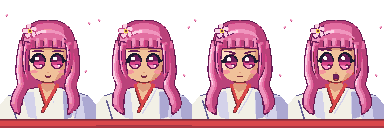
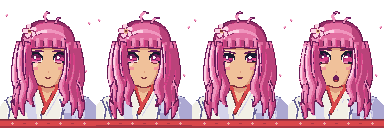
Sakura bust: natural-size almond eyes, longer face, layered locks, kimono folds, obi motif
Claude-Session: https://claude.ai/code/session_01J8LgTLVYzThXjNSRVhWqep

diff --git a/tools/sprites/anime_busts.py b/tools/sprites/anime_busts.py
@@ -546,11 +546,11 @@ S_SKIN_OUT = MAROON
 SKIN_L = (252, 222, 198); SKIN = (240, 193, 154); SKIN_S = (222, 156, 126); SKIN_SS = (200, 128, 108)
 BLUSH = (244, 148, 156); LIP = (190, 66, 88)
 HAIR = (226, 110, 160); HAIR_L = (240, 150, 190); HAIR_HI = (252, 210, 228)
-HAIR_D = (186, 66, 122); HAIR_OUT = (100, 28, 78)
+HAIR_D = (186, 66, 122); HAIR_DD = (148, 46, 102); HAIR_OUT = (100, 28, 78)
 IRIS_D = (112, 30, 96); IRIS_M = (214, 64, 134); IRIS_B = (255, 152, 200); WHITE = (255, 252, 250)
 LAV = (212, 210, 234); LAV_D = (172, 168, 210); LAV_OUT = (100, 94, 146)
 RED_L = (240, 112, 108)
-SAKURA_PALETTE = [S_INK, MAROON, SKIN_L, SKIN, SKIN_S, SKIN_SS, BLUSH, LIP, HAIR, HAIR_L, HAIR_HI, HAIR_D, HAIR_OUT,
+SAKURA_PALETTE = [S_INK, MAROON, SKIN_L, SKIN, SKIN_S, SKIN_SS, BLUSH, LIP, HAIR, HAIR_L, HAIR_HI, HAIR_D, HAIR_DD, HAIR_OUT,
                   IRIS_D, IRIS_M, IRIS_B, WHITE, CREAM, LAV, LAV_D, LAV_OUT, RED, RED_L, DEEP_RED, YELLOW, ORANGE]
 SBG = BG
 
@@ -615,8 +615,8 @@ def wob(ctrl, s, k, t0=0.3):
     return [(x + s * k * max(0.0, i / (n - 1) - t0) / (1 - t0), y) for i, (x, y) in enumerate(ctrl)]
 
 
-SFACE = [(13.6, 17), (24, 16.2), (34.4, 17), (35.5, 24), (35.2, 30), (33.6, 35), (30.6, 38.8), (27.2, 40.8), (24, 41.4),
-         (20.8, 40.8), (17.4, 38.8), (14.4, 35), (12.8, 30), (12.5, 24)]
+SFACE = [(13.6, 17), (24, 16.2), (34.4, 17), (35.4, 24), (35.0, 31), (33.2, 37), (30.0, 41.2), (26.6, 43.2), (24, 43.8),
+         (21.4, 43.2), (18.0, 41.2), (14.8, 37), (13.0, 31), (12.6, 24)]
 SFACE_S = smooth(SFACE + [SFACE[0]], 6)
 SNECK = [(21.2, 35), (26.8, 35), (27.2, 47.5), (20.8, 47.5)]
 STORSO = [(0, 64), (0, 55), (4, 50.4), (12, 47.8), (20.2, 45.9), (24, 48.0), (27.8, 45.9), (36, 47.8), (44, 50.4),
@@ -640,42 +640,52 @@ def bangs_bottom():
     return pts
 
 
+
 def s_eye(img, cx, cy, side, expr):
-    """Big cute eye: tall iris that fills the eye (no sclera), dark top -> rose -> bright bottom, thick upper lash
-    with an outer flick, big upper-left highlight and a small lower one. side -1 = left eye (outer corner left)."""
-    h = {"shout": 1.14, "determined": 0.9}.get(expr, 1.0)
-    rx, ry = 3.1, 3.65 * h
-    ecy = cy + 0.2 + (0.25 if expr == "determined" else 0)
-    ell = poly_mask(ellipse_pts(cx, ecy, rx, ry, 28))
+    """Natural anime eye: almond shape wider than tall, outer corner a little raised, iris ~80% of the height with
+    a sliver of white at each corner, dark -> rose -> bright gradient, thick upper lash with a subtle outer flick,
+    a thin lower lash hint at the outer corner, one main highlight and a small second one."""
+    h = {"shout": 1.16, "determined": 0.86}.get(expr, 1.0)
+    hw, hh = 3.2, 3.0 * h
+    N = 20
+    top, bot = [], []
+    for k in range(N + 1):
+        t = k / N
+        u = 2 * t - 1
+        x = cx - side * hw + side * 2 * hw * t
+        sq = math.sqrt(max(0.0, 1 - u * u))
+        top.append((x, cy - hh * sq - 0.55 * t + 0.1))
+        bot.append((x, cy + hh * 0.7 * sq - 0.5 * t + 0.1))
+    almond = top + bot[::-1]
+    am = poly_mask(almond)
     d = ImageDraw.Draw(img)
-    paste_mask(img, IRIS_B, ell)
-    paste_mask(img, IRIS_M, both(ell, box_mask(0, 0, 48, ecy + ry * 0.45)))
-    paste_mask(img, IRIS_D, both(ell, box_mask(0, 0, 48, ecy + ry * 0.02)))
+    poly(d, almond, CREAM)
+    iris = poly_mask(ellipse_pts(cx + side * 0.1, cy + 0.15, 2.1, hh * 0.98, 24))
+    iris = both(iris, am)
+    paste_mask(img, IRIS_B, iris)
+    paste_mask(img, IRIS_M, both(iris, box_mask(0, 0, 48, cy + hh * 0.3)))
+    paste_mask(img, IRIS_D, both(iris, box_mask(0, 0, 48, cy - hh * 0.3)))
     d = ImageDraw.Draw(img)
-    d.line([P(*p) for p in ellipse_pts(cx, ecy, rx - 0.15, ry - 0.15, 20, 0.35, math.pi - 0.35)], fill=IRIS_D, width=5)
-    # lash: thin at the inner corner, thick at the outer one, then a short flick out and up
-    th0, th1 = (math.pi + 0.05, 2 * math.pi - 0.05)
-    arc = ellipse_pts(cx, ecy, rx + 0.1, ry + 0.05, 24, th0, th1)
-    if side < 0:
-        arc = arc[::-1]
-    m = len(arc) - 1
+    d.line([P(*p) for p in bot[3:N - 2]], fill=lc(S_SKIN_OUT), width=4, joint="curve")
+    m = len(top) - 1
     for i in range(m):
         t = i / m
-        w = 9 + 12 * t ** 1.3
-        d.line([P(*arc[i]), P(*arc[i + 1])], fill=S_INK, width=int(w))
-        x, y = P(*arc[i + 1])
+        w = 7 + 6 * t ** 1.3
+        d.line([P(*top[i]), P(*top[i + 1])], fill=S_INK, width=int(w))
+        x, y = P(*top[i + 1])
         d.ellipse((x - w / 2, y - w / 2, x + w / 2, y + w / 2), fill=S_INK)
-    ox, oy = arc[-1]
-    f1 = (ox + side * 0.9, oy - 0.2)
-    f2 = (ox + side * 1.9, oy - 0.95)
-    for (a, b, w) in ((arc[-1], f1, 12), (f1, f2, 8)):
+    ox, oy = top[-1]
+    f1 = (ox + side * 0.8, oy - 0.1)
+    f2 = (ox + side * 1.4, oy - 0.45)
+    for (a, b, w) in ((top[-1], f1, 10), (f1, f2, 6)):
         d.line([P(*a), P(*b)], fill=S_INK, width=w)
-        x, y = P(*b)
-        d.ellipse((x - w / 2, y - w / 2, x + w / 2, y + w / 2), fill=S_INK)
-    # highlights
-    hx, hy = cx - 0.85, ecy - ry * 0.42
-    d.ellipse(((hx - 1.1) * K, (hy - 1.15) * K, (hx + 1.1) * K, (hy + 1.15) * K), fill=WHITE)
-    d.ellipse(((cx + 1.1 - 0.55) * K, (ecy + ry * 0.55 - 0.5) * K, (cx + 1.1 + 0.55) * K, (ecy + ry * 0.55 + 0.5) * K), fill=WHITE)
+    lo = bot[int(N * 0.62):]
+    d.line([P(*p) for p in lo], fill=S_INK, width=4, joint="curve")
+    lx, ly = lo[-1]
+    d.line([P(lx, ly), P(lx + side * 0.7, ly + 0.3)], fill=S_INK, width=4)
+    hx, hy = cx - 0.6, cy - hh * 0.3
+    d.ellipse(((hx - 0.8) * K, (hy - 0.85) * K, (hx + 0.8) * K, (hy + 0.85) * K), fill=WHITE)
+    d.ellipse(((cx + 0.9 - 0.4) * K, (cy + hh * 0.5 - 0.4) * K, (cx + 0.9 + 0.4) * K, (cy + hh * 0.5 + 0.4) * K), fill=WHITE)
 
 
 def s_brow(d, cx, cy, side, expr):
@@ -691,19 +701,19 @@ def s_brow(d, cx, cy, side, expr):
 
 def s_mouth(d, expr):
     if expr == "shout":
-        pts = ellipse_pts(24, 38.6, 1.5, 1.7, 16)
+        pts = ellipse_pts(24, 39.2, 1.4, 1.6, 16)
         poly(d, pts, IRIS_D)
-        d.ellipse((23.0 * K, 39.2 * K, 25.0 * K, 39.9 * K), fill=RED_L)
+        d.ellipse((23.0 * K, 39.8 * K, 25.0 * K, 40.5 * K), fill=RED_L)
         outline(d, pts, 5, col=lc(MAROON))
     elif expr == "determined":
-        d.line([P(22.7, 38.3), P(25.3, 38.3)], fill=lc(MAROON), width=7)
+        d.line([P(22.7, 38.9), P(25.3, 38.9)], fill=lc(MAROON), width=7)
     else:
-        d.line([P(*p) for p in smooth([(22.6, 37.9), (23.3, 38.5), (24.7, 38.5), (25.4, 37.9)], 6)], fill=lc(MAROON), width=7,
+        d.line([P(*p) for p in smooth([(22.7, 38.5), (23.4, 39.1), (24.6, 39.1), (25.3, 38.5)], 6)], fill=lc(MAROON), width=7,
                joint="curve")
 
 
 def s_draw_torso(img):
-    YOFF[0] = -2.4
+    YOFF[0] = -1.6
     d = ImageDraw.Draw(img)
     shape(d, SNECK, SKIN, col=lc(S_SKIN_OUT))
     shape(d, STORSO, CREAM, col=lc(LAV_OUT))
@@ -717,6 +727,14 @@ def s_draw_torso(img):
     d = ImageDraw.Draw(img)
     for a, b, col in (((5.2, 52.4), (8.2, 62.0), LAV_D), ((39.6, 52.6), (37.4, 61.6), LAV_D), ((11.5, 49.6), (13.4, 55.4), LAV), ((17.5, 54), (16.5, 61), LAV)):
         d.line([P(*a), P(*b)], fill=col, width=7)
+    # lavender shadow under the hair, then folds: dark crease with a lit lip on its light side
+    paste_mask(img, LAV, both(torm, poly_mask([(8, 49), (15, 48), (16, 58), (10, 57)])))
+    paste_mask(img, LAV, both(torm, poly_mask([(33, 48), (40, 49), (39, 58), (32, 58)])))
+    d = ImageDraw.Draw(img)
+    for pts in (((3.0, 51.5), (5.0, 56), (4.0, 62)), ((22.0, 55), (20.5, 59), (21.5, 63)), ((43.5, 52), (41.5, 57), (42.5, 62)),
+                ((30.0, 51), (31.4, 56), (30.4, 62))):
+        d.line([P(*p) for p in pts], fill=LAV_D, width=7, joint="curve")
+        d.line([P(p[0] - 0.8, p[1]) for p in pts], fill=WHITE, width=5, joint="curve")
     # chest V, collar crossing left over right (the flap from the wearer's left, our right, lies on top)
     V = [(19.8, 45.0), (28.2, 45.0), (22.6, 54.0)]
     poly(d, V, SKIN)
@@ -738,6 +756,7 @@ def s_draw_torso(img):
     return neckm, torm
 
 
+
 def s_draw_face(img, neckm, torm, expr):
     facem = poly_mask(SFACE_S)
     jaw = both(both(shift(facem, int(1 * F), int(13 * F)), neckm), inv(facem))
@@ -746,35 +765,47 @@ def s_draw_face(img, neckm, torm, expr):
     paste_mask(img, SKIN_SS, both(jaw2, inv(torm)))
     d = ImageDraw.Draw(img)
     poly(d, SFACE_S, SKIN)
-    paste_mask(img, SKIN_L, both(facem, poly_mask([(13, 22), (22, 22), (21, 28), (16, 36), (13.5, 33)])))
-    paste_mask(img, SKIN_S, both(facem, poly_mask([(31, 23), (36, 22), (36, 30), (33, 36.6), (28.8, 40.6), (26, 42), (29.6, 36.4), (31.6, 30)])))
+    paste_mask(img, SKIN_L, both(facem, poly_mask([(13, 22), (22, 22), (21, 28), (16, 37), (13.5, 33)])))
+    paste_mask(img, SKIN_S, both(facem, poly_mask([(31, 23), (36, 22), (36, 31), (33, 38), (29, 42.4), (26, 44), (29.6, 38), (31.6, 31)])))
     paste_mask(img, SKIN_S, both(facem, poly_mask([(15, 24), (34, 24), (34, 25.0), (15, 25.0)])))      # bang shadow
     d = ImageDraw.Draw(img)
-    for bx in (16.9, 31.1):
-        d.ellipse(((bx - 2.0) * K, 35.0 * K, (bx + 2.0) * K, 36.8 * K), fill=BLUSH)
-    d.rectangle((23.7 * K, 36.0 * K, 24.5 * K, 36.6 * K), fill=SKIN_S)
+    for bx in (17.2, 30.8):
+        d.ellipse(((bx - 2.0) * K, 33.3 * K, (bx + 2.0) * K, 35.1 * K), fill=BLUSH)
+    d.rectangle((23.7 * K, 35.7 * K, 24.5 * K, 36.3 * K), fill=SKIN_S)
     s_mouth(d, expr)
-    outline(d, SFACE_S[len(SFACE_S) // 2 - 12: len(SFACE_S) // 2 + 14], w=7, closed=False, col=lc(S_SKIN_OUT))
-    cy = 30.6
-    s_eye(img, 19.5, cy, -1, expr)
-    s_eye(img, 28.5, cy, 1, expr)
+    outline(d, SFACE_S[len(SFACE_S) // 2 - 13: len(SFACE_S) // 2 + 15], w=7, closed=False, col=lc(S_SKIN_OUT))
+    cy = 29.6
+    s_eye(img, 18.2, cy, -1, expr)
+    s_eye(img, 29.8, cy, 1, expr)
     return facem
+
 
 
 def s_draw_hair(img, facem, s, expr):
     d = ImageDraw.Draw(img)
-    # back mass (darker), behind everything but the crown
-    shape(d, BACKMASS, HAIR_D, col=lc(HAIR_OUT))
+    # back mass in a deep shade: shows between the locks
+    shape(d, BACKMASS, HAIR_DD, col=lc(HAIR_OUT))
     return d
+
+
+LOCKS_L = [
+    ([(11.0, 21), (9.2, 29), (8.4, 38), (10.0, 46), (8.2, 53), (9.0, 59.5)], 4.8, 0.85),
+    ([(12.4, 21), (11.0, 29), (11.4, 37), (13.2, 44), (11.4, 51), (12.6, 58)], 4.6, 0.7),
+    ([(13.8, 22), (13.6, 30), (14.6, 37), (16.6, 43), (15.2, 49), (17.6, 53.5)], 3.8, 0.55),
+]
+STRANDS_L = [([(9.6, 40), (7.6, 45), (7.2, 50), (8.4, 53)], 1.2, 0.9), ([(11.6, 46), (10.4, 52), (11.8, 58)], 1.1, 0.7)]
 
 
 def s_front_hair(img, s, expr):
     d = ImageDraw.Draw(img)
-    # long outer locks falling over the shoulders, gentle S waves, swaying
-    L_ctrl = [(12.6, 20.5), (11.2, 28), (10.8, 36), (12.2, 42.5), (10.2, 48), (9.8, 53), (12.0, 57)]
-    R_ctrl = [(35.4, 20.5), (36.8, 28), (37.2, 36), (35.8, 42.5), (37.8, 48), (38.2, 53), (36.0, 57)]
-    lock(d, wob(L_ctrl, s, 2.2), 5.6, 5.8, clumps=[(-0.2, 0.2, 0.9)], taper=0.2)
-    lock(d, wob(R_ctrl, s, 2.2), 5.6, 5.8, clumps=[(-0.2, 0.2, 0.9)], taper=0.2)
+    for side in (1, -1):
+        for ctrl, w, k in LOCKS_L:
+            c = wob(ctrl, s, k, 0.35)
+            if side < 0:
+                c = mirror(c)
+            lock(d, c, w + 0.6, w + 1.0, taper=0.34, ow=5)
+        c = wob(STRANDS_L[0][0], s, 1.1, 0.3)
+        lock(d, mirror(c) if side < 0 else c, 1.1, 1.1, base=HAIR_L, taper=0.5, ow=4, n=6)
     return d
 
 
@@ -811,11 +842,15 @@ def s_cap(img, s, expr):
     return d
 
 
+
 def s_inner_locks(img, s, expr):
     d = ImageDraw.Draw(img)
-    li = [(13.9, 21.0), (13.0, 27.5), (13.4, 34.0), (14.9, 40.4)]
-    lock(d, wob(li, s, 0.9, 0.4), 3.4, 2.8, clumps=[(0.1, 0.2, 0.8)], taper=0.3)
-    lock(d, wob(mirror(li), s, 0.9, 0.4), 3.4, 2.8, clumps=[(0.1, 0.2, 0.8)], taper=0.3)
+    li = [(13.9, 21.0), (13.0, 28), (13.2, 35.5), (14.6, 43.0)]
+    lock(d, wob(li, s, 0.6, 0.4), 3.2, 2.6, clumps=[(0.1, 0.2, 0.8)], taper=0.32)
+    lock(d, wob(mirror(li), s, 0.6, 0.4), 3.2, 2.6, clumps=[(0.1, 0.2, 0.8)], taper=0.32)
+    # two loose strands curling off the crown
+    lock(d, wob([(23.4, 11.0), (22.4, 8.2), (24.0, 6.2), (26.4, 7.0)], s, 0.8, 0.3), 1.3, 1.1, base=HAIR_L, taper=0.5, ow=4, n=6)
+    lock(d, wob([(27.6, 11.6), (29.4, 9.2), (31.6, 9.0)], s, 0.8, 0.3), 1.2, 1.0, base=HAIR_L, taper=0.5, ow=4, n=6)
     return d
 
 
@@ -870,6 +905,19 @@ def add_petals(out, sway):
                 px[X2, Y2] = col + (255,)
 
 
+def add_obi_motif(out):
+    """Tiny blossoms and dashes on the obi band (placed on the finished pixel art)."""
+    px = out.load()
+    for x in (12, 36, 60, 84):
+        for dx, dy, col in ((0, -1, HAIR_L), (-1, 0, HAIR_L), (1, 0, HAIR_L), (0, 1, HAIR_L), (0, 0, YELLOW)):
+            if px[x + dx, 123 + dy][:3] in (RED, RED_L, DEEP_RED):
+                px[x + dx, 123 + dy] = col + (255,)
+    for x in (24, 48, 72):
+        for dx in (-1, 0, 1):
+            if px[x + dx, 123][:3] == RED:
+                px[x + dx, 123] = DEEP_RED + (255,)
+
+
 def make_sakura_frame(sway, expr):
     src = s_draw_frame(sway, expr)
     diff = ImageChops.difference(src, Image.new("RGB", src.size, SBG)).convert("L").point(lambda v: 255 if v > 0 else 0)
@@ -877,6 +925,7 @@ def make_sakura_frame(sway, expr):
     out = snap(pixelize(src, W, 40), mask, SAKURA_PALETTE)
     out = cleanup(out)
     add_petals(out, sway)
+    add_obi_motif(out)
     return out
 
 
